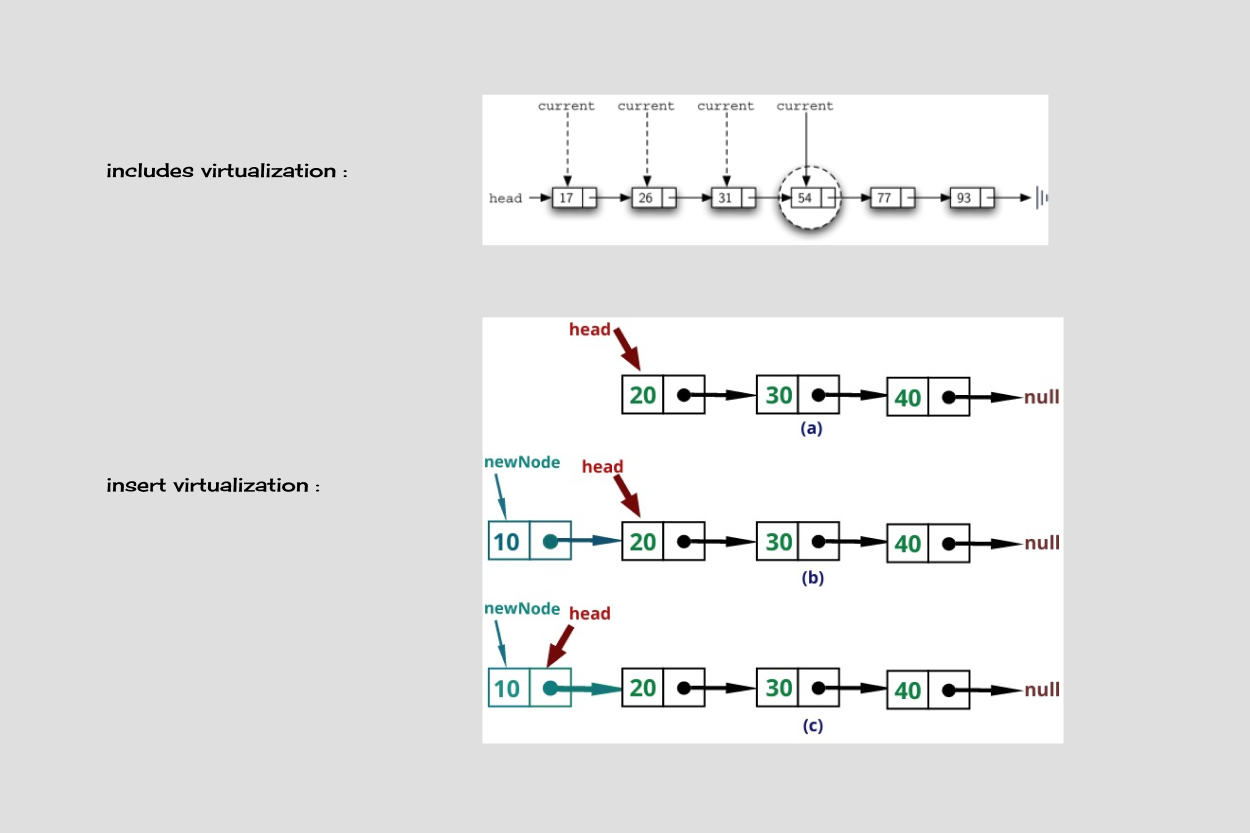
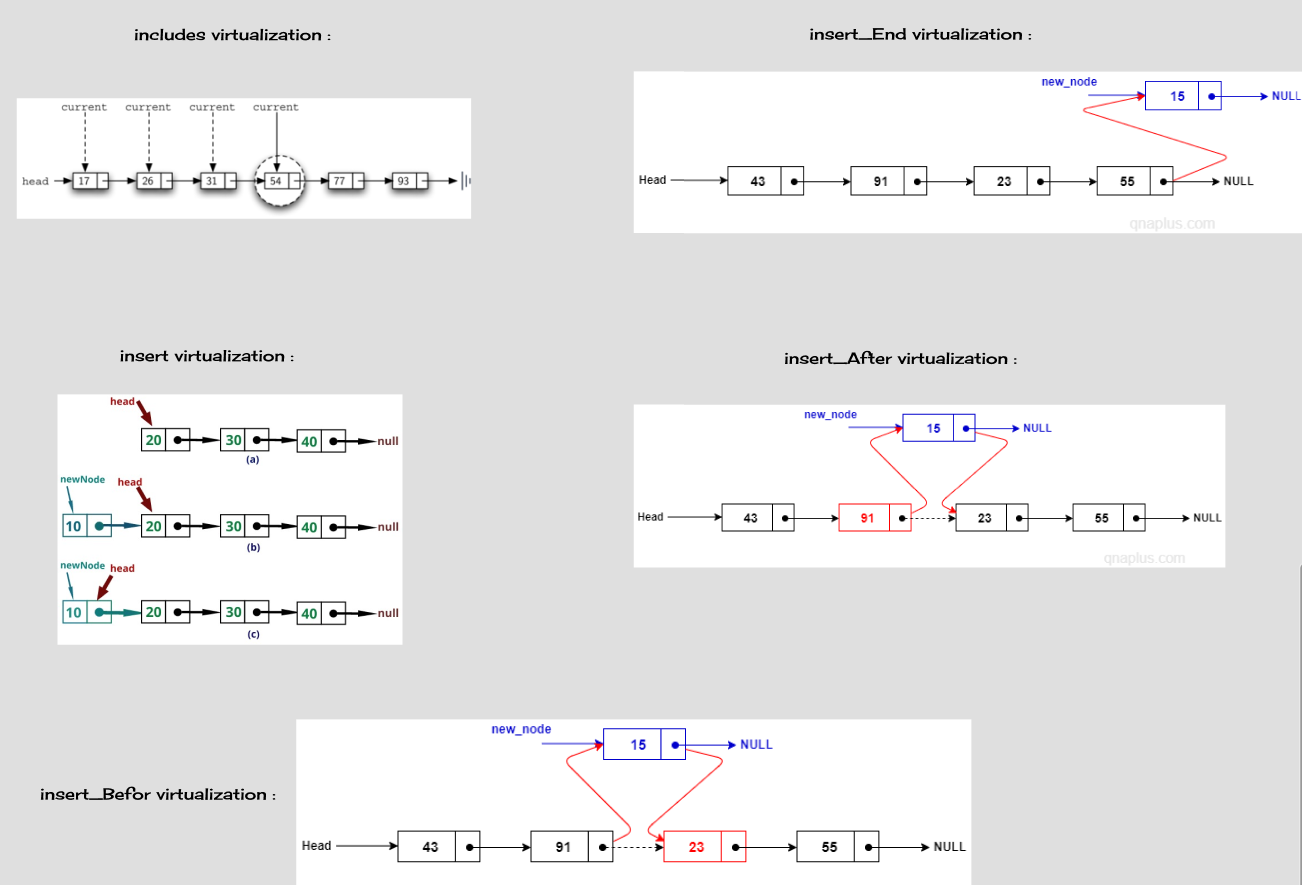
CC06

diff --git a/linkedlist/lib/src/test/java/linkedlist/LinkedListTest.java b/linkedlist/lib/src/test/java/linkedlist/LinkedListTest.java
@@ -80,5 +80,64 @@ public class LinkedListTest {
         String expected = "The LinkedList is Empty";
         assertEquals(expected, linkedList.toString());
     }
+
+//    ============== Test CC06 ===========
+
+    @Test
+    public void testAddNodeToEndOfLinkedList() {
+        LinkedList<Integer> linkedList = new LinkedList<>();
+        linkedList.insert(2);
+        linkedList.insert(1);
+        linkedList.append(3); // Add 3 To the End
+        assertEquals("{1} -> {2} -> {3} -> NULL", linkedList.toString());
+    }
+
+    @Test
+    public void testAppendMultipleNodesToEndOfLinkedList() {
+        LinkedList<Integer> linkedList = new LinkedList<>();
+        linkedList.append(1);
+        linkedList.append(2);
+        linkedList.append(3);
+        assertEquals("{1} -> {2} -> {3} -> NULL", linkedList.toString());
+    }
+
+    @Test
+    public void testInsertBeforeMiddleNode() {
+        LinkedList<Integer> linkedList = new LinkedList<>();
+        linkedList.insert(4);
+        linkedList.insert(3);
+        linkedList.insert(1);
+        linkedList.insertBefore(3, 2);
+        assertEquals("{1} -> {2} -> {3} -> {4} -> NULL", linkedList.toString());
+    }
+
+    @Test
+    public void testInsertBeforeFirstNode() {
+        LinkedList<Integer> linkedList = new LinkedList<>();
+        linkedList.insert(2);
+        linkedList.insert(1);
+        linkedList.insertBefore(1, 0);
+        assertEquals("{0} -> {1} -> {2} -> NULL", linkedList.toString());
+    }
+
+    @Test
+    public void testInsertAfterMiddleNode() {
+        LinkedList<Integer> linkedList = new LinkedList<>();
+        linkedList.insert(4);
+        linkedList.insert(2);
+        linkedList.insert(1);
+        linkedList.insertAfter(2, 3);
+        assertEquals("{1} -> {2} -> {3} -> {4} -> NULL", linkedList.toString());
+    }
+
+    @Test
+    public void testInsertAfterLastNode() {
+        LinkedList<Integer> linkedList = new LinkedList<>();
+        linkedList.insert(2);
+        linkedList.insert(1);
+        linkedList.insertAfter(2, 3);
+        assertEquals("{1} -> {2} -> {3} -> NULL", linkedList.toString());
+    }
+
 }
 

diff --git a/linkedlist/lib/src/main/java/datastructures/linkedlist/LinkedList.java b/linkedlist/lib/src/main/java/datastructures/linkedlist/LinkedList.java
@@ -47,4 +47,60 @@ public class LinkedList<T> {
 return x + "NULL" ;
     }
 
+    // ============== CC06 =========================
+
+    public void append(T value) {
+        Node<T> newNode = new Node<>(value);
+        if (isEmpty()) {
+            head = newNode;
+            return;
+        }
+        Node<T> currentNode = head;
+        while (currentNode.next != null) {
+            currentNode = currentNode.next;
+        }
+        currentNode.next = newNode;
+    }
+
+    public void insertBefore(T targetValue, T newValue) {
+        Node<T> newNode = new Node<>(newValue);
+        if (isEmpty()) {
+            System.out.println("Cannot insert before. The LinkedList is Empty");
+            return;
+        }
+        if (head.value == targetValue) {
+            newNode.next = head;
+            head = newNode;
+            return;
+        }
+        Node<T> currentNode = head;
+        while (currentNode.next != null) {
+            if (currentNode.next.value == targetValue) {
+                newNode.next = currentNode.next;
+                currentNode.next = newNode;
+                return;
+            }
+            currentNode = currentNode.next;
+        }
+        System.out.println("No change, method exception");
+    }
+
+    public void insertAfter(T targetValue, T newValue) {
+        Node<T> newNode = new Node<>(newValue);
+        if (isEmpty()) {
+            System.out.println("The LinkedList is Empty Cannot insert after");
+            return;
+        }
+        Node<T> currentNode = head;
+        while (currentNode != null) {
+            if (currentNode.value == targetValue) {
+                newNode.next = currentNode.next;
+                currentNode.next = newNode;
+                return;
+            }
+            currentNode = currentNode.next;
+        }
+        System.out.println("No change, method exception");
+    }
+
 }

diff --git a/linkedlist/lib/src/main/java/datastructures/linkedlist/App.java b/linkedlist/lib/src/main/java/datastructures/linkedlist/App.java
@@ -1,4 +1,5 @@
 package datastructures.linkedlist;
+
 public class App {
     public static void main(String[] args) {
         LinkedList<Integer> linkedList = new LinkedList<>();
@@ -8,9 +9,24 @@ public class App {
         linkedList.insert(5);
         linkedList.insert(11);
 
-        System.out.println(linkedList.includes(9));
-        System.out.println(linkedList.includes(4));
+        System.out.println("Contains 9: " + linkedList.includes(9));
+        System.out.println("Contains 4: " + linkedList.includes(4));
 
-        System.out.println(linkedList);
+        System.out.println("Initial List: " + linkedList);
+
+        // Append
+        linkedList.append(7);
+        linkedList.append(8);
+        System.out.println("After Append: " + linkedList);
+
+        // Insert Before
+        linkedList.insertBefore(5, 6);
+        linkedList.insertBefore(11, 12);
+        System.out.println("After Insert Before: " + linkedList);
+
+        // Insert After
+        linkedList.insertAfter(8, 13);
+        linkedList.insertAfter(7, 14);
+        System.out.println("After Insert After: " + linkedList);
     }
 }

diff --git a/linkedlist/lib/src/main/java/datastructures/linkedlist/Node.java b/linkedlist/lib/src/main/java/datastructures/linkedlist/Node.java
@@ -6,6 +6,6 @@ public class Node<T> {
 
     public Node(T value) {
         this.value = value;
-        this.next=null;
+        this.next = null;
     }
 }

diff --git a/linkedlist/README.md b/linkedlist/README.md
@@ -47,7 +47,6 @@ The `LinkedList` class implements a basic linked list data structure, where node
 
 - Method: `toString()`:
     - Generates a string representation of the linked list.
-    - 
     - Algorithm:
         1. Initialize `result` as an empty string.
         2. Initialize `currentNode` to the `head`.
@@ -57,9 +56,41 @@ The `LinkedList` class implements a basic linked list data structure, where node
         4. Append `"NULL"` to `result`.
         5. Return the final `result`.
 
+- Method: `append(value: T)`
+    - The `append` method adds a new node with the given value to the end of the linked list. This operation is useful when you want to expand the linked list by placing new elements at the end.
+    - Algorithm:
+        1. Create a new node `newNode` with the provided value.
+        2. If the linked list is empty (i.e., `head` is `null`), set `head` to point to `newNode`.
+        3. Otherwise, traverse the linked list starting from the `head` until the last node is reached (i.e., a node with `next` pointing to `null`).
+        4. Set the `next` reference of the last node to point to `newNode`.
+
+- Method: `insertBefore(targetValue: T, newValue: T)`
+    - The `insertBefore` method inserts a new node with the specified `newValue` immediately before the first occurrence of the `targetValue` in the linked list. This operation is useful for adding elements in a specific position.
+      - Algorithm:
+          1. Create a new node `newNode` with the provided `newValue`.
+          2. If the linked list is empty (i.e., `head` is `null`), print an error message indicating that insertion is not possible.
+          3. If the `value` of the `head` matches the `targetValue`, set the `next` reference of `newNode` to the `head`, and update `head` to point to `newNode`.
+          4. Otherwise, traverse the linked list starting from the `head` until the node before the target node is reached (i.e., a node with `next` pointing to the node with `value` matching `targetValue`).
+          5. Set the `next` reference of `newNode` to point to the node referenced by the `next` reference of the current node.
+          6. Set the `next` reference of the current node to point to `newNode`.
+
+- Method: `insertAfter(targetValue: T, newValue: T)`
+    - The `insertAfter` method inserts a new node with the specified `newValue` immediately after the first occurrence of the `targetValue` in the linked list. This operation is useful for adding elements in a specific position.
+      - Algorithm:
+          1. Create a new node `newNode` with the provided `newValue`.
+          2. If the linked list is empty (i.e., `head` is `null`), print an error message indicating that insertion is not possible.
+          3. Traverse the linked list starting from the `head`:
+              - If the `value` of the current node matches the `targetValue`, set the `next` reference of `newNode` to the `next` reference of the current node.
+              - Set the `next` reference of the current node to point to `newNode`.
+              - Return from the method, as the insertion is complete.
+          4. If no node with a value matching the `targetValue` is found during traversal, print an error message indicating that insertion is not possible.
+
+
 ## white Board
 
 ![whiteBoard](./assets/LinkedListWB.png)
+### Update some Feature
+![whiteBoard](./assets/UpdateLinkedListWB.png)
 ![whiteBoard](./assets/LinkedListWB2.png)
 
 ## Approach & Efficiency
